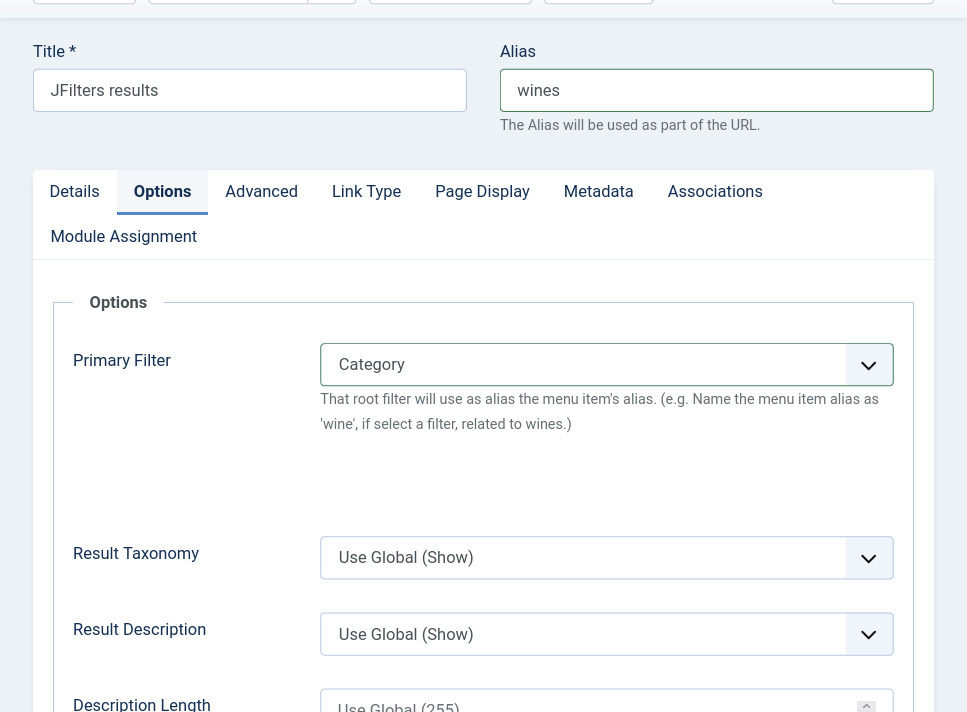
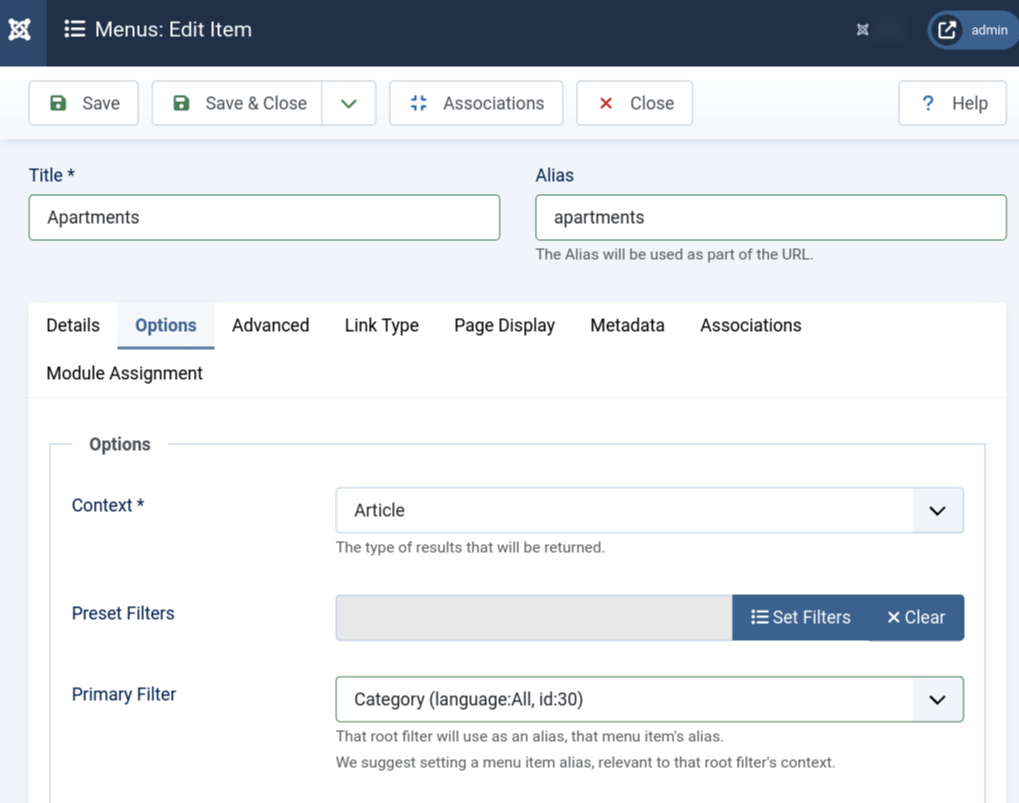
new menu item settings

diff --git a/docs/getting-started/create-menu-item.md b/docs/getting-started/create-menu-item.md
@@ -7,11 +7,6 @@ Go to `Menus` select your menu and press the "New" button.
 
 As "Menu Item Type" select `JFilters > Results`.
 
-:::tip
-We do NOT want this menu item to be visible to the users.  
-Our suggestion is to either hide it using the `Link Type > Display in Menu` setting or put it under a menu, which is not visible in the front-end.
-:::
-
 As *Alias*, we suggest setting something that is relevant to your content.  
 e.g. If the site (or the used filters) are about wines, you can set *'wines'* as alias. 
 
@@ -19,7 +14,21 @@ We will explain the settings under the **Options** tab, as the other are common 
 
 ![JFilters menu settings](/img/getting-started/menu-options.png)
 
-##  Primary Filter
+## Context
+The type of content that will be used as results.
+
+## Preset Filters
+Define the default results by presetting filters.
+
+Using that setting, you can create any type of page by selecting the filters of your preference.
+
+:::tip
+If the `Preset Filters` setting is empty, our results page will be empty, but it will still load results after selecting filters.
+In that case, you better keep this menu item invisible in the front-end.
+Our suggestion is to hide it using the `Link Type > Display in Menu` setting.
+:::
+
+## Primary Filter
 If a primary filter is selected, that filter will use as an alias, that menu item's alias.
 That means that the urls will be shorter and more specific to the site's content.
 
